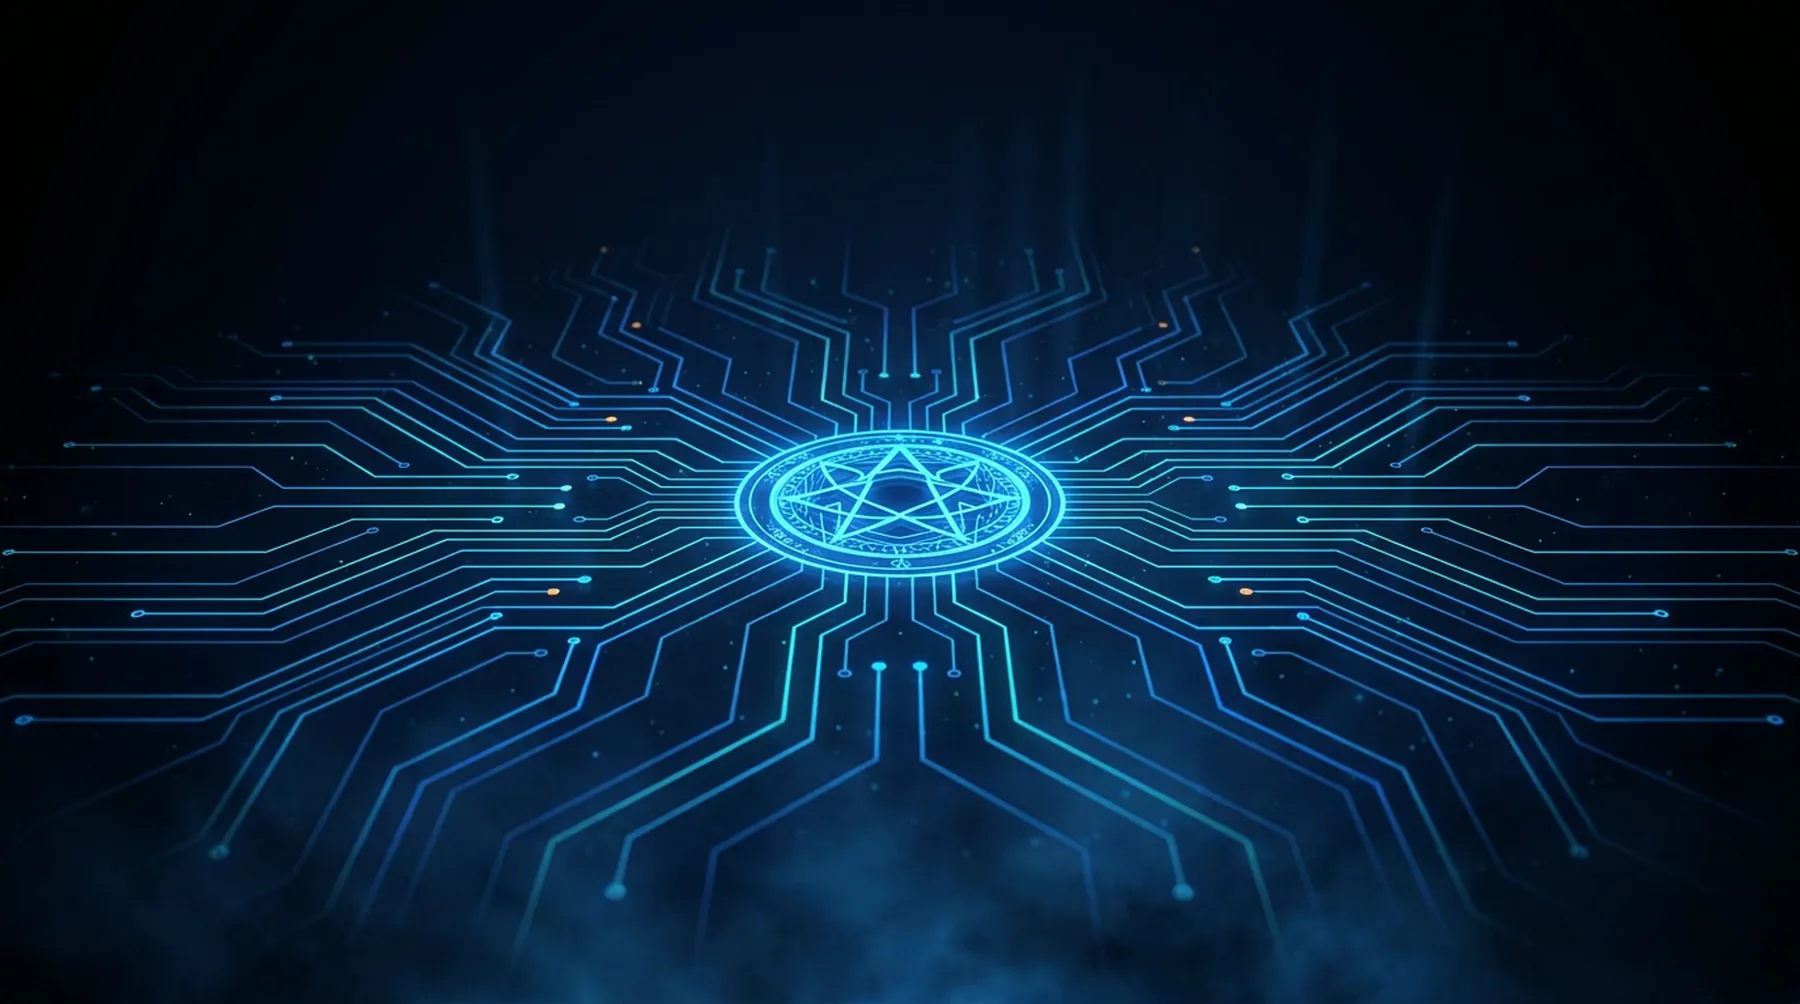
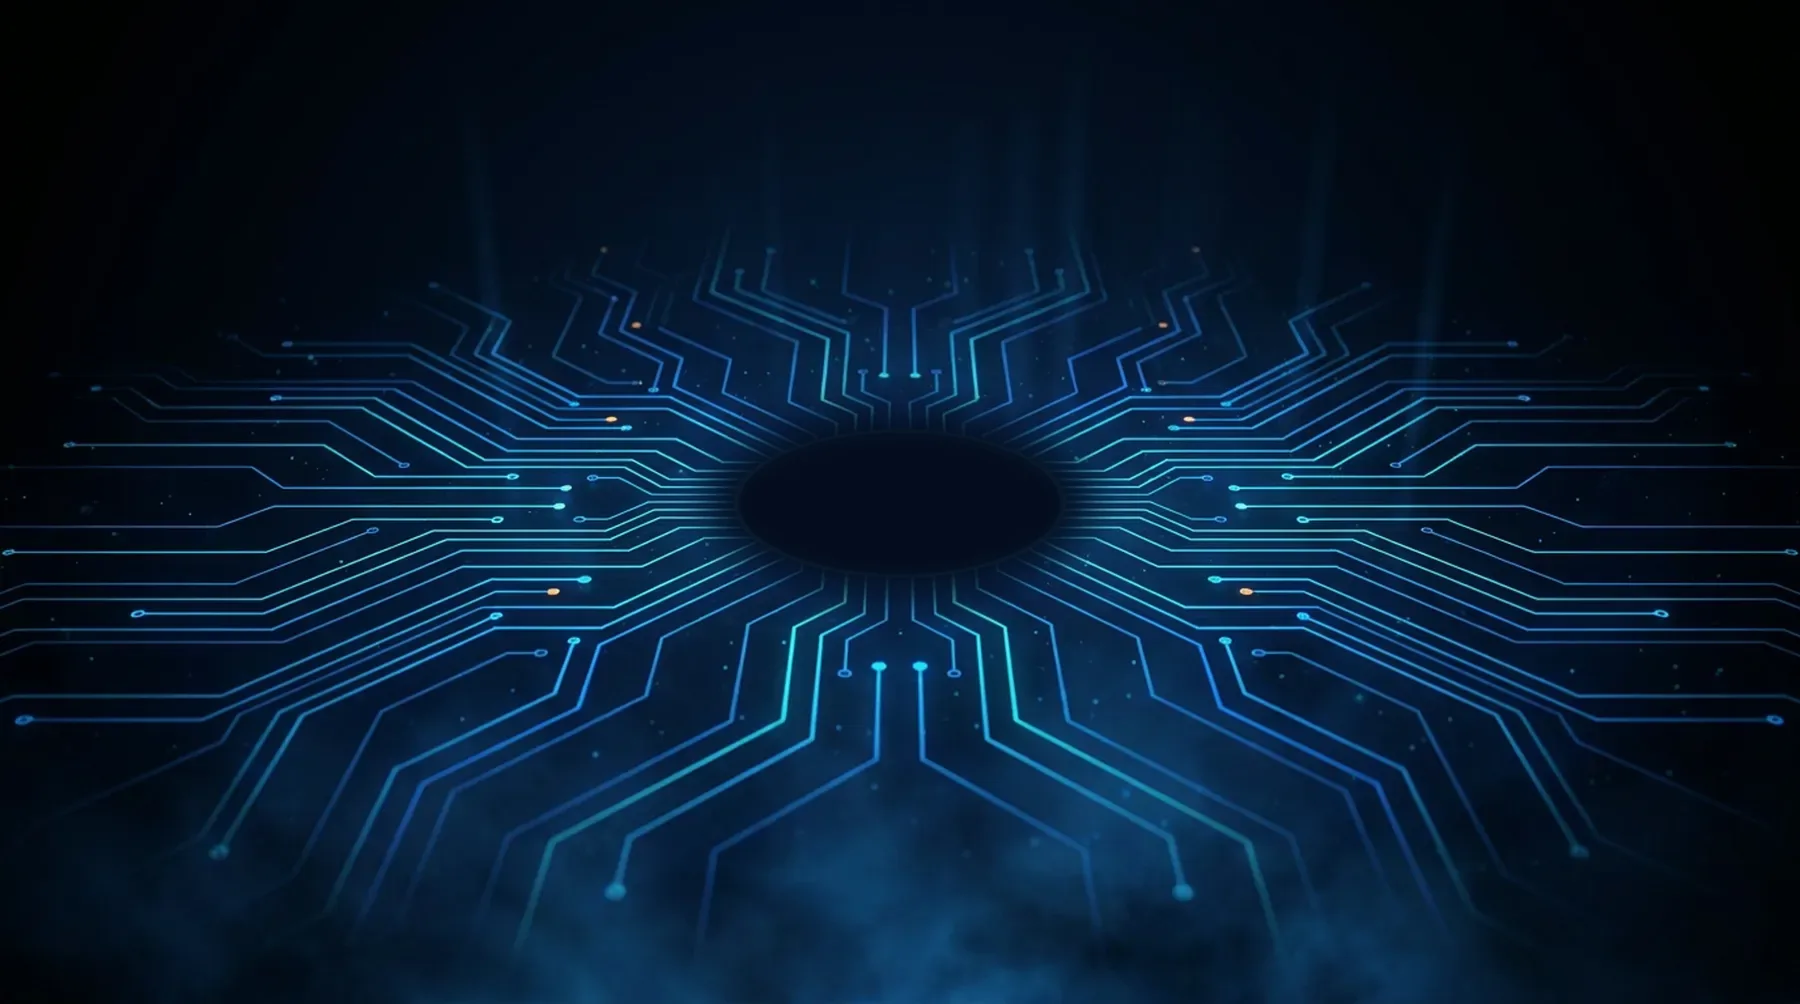
Diagram przed/po (reczna robota -> system), most, naglowek HUD; usuniete kolka i pierscien z ekranu

Changed region(s): [[0.3733, 0.3705, 0.6222, 0.6175]]

diff --git a/index.html b/index.html
@@ -64,7 +64,77 @@
     <div class="ss-mlabel reveal">(dlaczego SparkScale)</div>
     <p class="ss-mtext" id="ssManifestText">Nie sprzedajemy pojedynczych usług. Budujemy jeden spójny system, który łączy markę, produkt, growth i AI - i skaluje się razem z Tobą.</p>
     <div class="ss-mline"><span id="ssMline"></span></div>
+    <div class="sys-demo" id="sysDemo" data-s="a">
+      <div class="sys-bar">
+        <button type="button" class="sys-chip on" data-go="a">1 · Stan obecny</button>
+        <i aria-hidden="true">→</i>
+        <button type="button" class="sys-chip" data-go="b">2 · System SparkScale</button>
+        <button type="button" class="sys-chip sys-re" id="sysRe">↻ od nowa</button>
+      </div>
+      <svg id="sysSvg" viewBox="0 0 1100 580" role="img" aria-label="Schemat: firma z ręczną pracą ludzi zamieniona w jeden spójny system, w którym człowiek tylko weryfikuje"></svg>
+      <p class="sys-cap"><b class="ca">Stan obecny — ręczna robota.</b><b class="cb">System firmowy — dane płyną same.</b>
+        <span class="sys-leg"><svg viewBox="-12 -22 24 46" width="14" height="26" aria-hidden="true"><use href="#sysMan"/></svg> = powtarzalna praca człowieka · ludzików: <em id="sysCnt">9</em></span></p>
+    </div>
   </section>
+  <div class="sys-bridge" aria-hidden="true"><i></i></div>
+  <script>
+  (function(){
+    var demo=document.getElementById('sysDemo'),svg=document.getElementById('sysSvg');if(!demo||!svg)return;
+    var RM=matchMedia('(prefers-reduced-motion:reduce)').matches,tm=0,started=false;
+    var OR='#ff9a3c',YE='#ffe14d',GO='#f5c518',RD='#ff3b4a',DR='#e2566e',BL='#7d8bff',GR='#2ed573',GY='#9aa0a6',W='#F5F5F4';
+    function rect(w,h,c,t,fs,rx){return '<rect x="'+(-w/2)+'" y="'+(-h/2)+'" width="'+w+'" height="'+h+'" rx="'+(rx||4)+'" fill="'+c+'" fill-opacity=".1" stroke="'+c+'" stroke-width="3.5"/>'+lab(t,c,fs);}
+    function ell(rx,ry,c,t,fs){return '<ellipse rx="'+rx+'" ry="'+ry+'" fill="'+c+'" fill-opacity=".1" stroke="'+c+'" stroke-width="3.5"/>'+lab(t,c,fs);}
+    function lab(t,c,fs){var a=t.split('/'),o='',n=a.length;a.forEach(function(s,i){o+='<text y="'+((i-(n-1)/2)*(fs+4))+'" fill="'+c+'" font-size="'+fs+'">'+s+'</text>';});return o;}
+    function node(id,ax,ay,as,bx,by,bs,a,b,d){return '<g class="n" style="--ax:'+ax+';--ay:'+ay+';--as:'+as+';--bx:'+bx+';--by:'+by+';--bs:'+bs+';--d:'+(d||0)+'s">'+(b?'<g class="sa" style="--d:'+(d||0)+'s">'+a+'</g><g class="sb" style="--d:'+(d||0)+'s">'+b+'</g>':a)+'</g>';}
+    function man(x,y,i,cls){return '<g transform="translate('+x+' '+y+')" class="'+(cls||'')+'"><g class="fi" style="--i:'+i+'"><use href="#sysMan"/></g></g>';}
+    function line(d,cls,extra){return '<path class="'+cls+'" d="'+d+'" pathLength="1" '+(extra||'')+'/>';}
+    function brk(x,y,i){return '<g class="ob" transform="translate('+x+' '+y+')" style="--d:2.6s"><path d="M-12,-26H-34V26H-12M12,-26H34V26H12" stroke="'+W+'" stroke-width="4.5" fill="none" stroke-linejoin="round"/><use href="#sysMan"/></g>';}
+    var hex='-205,-48 0,-96 205,-48 205,48 0,96 -205,48';
+    var h='<defs><g id="sysMan" stroke="#F5F5F4" stroke-width="2.4" stroke-linecap="round" fill="none"><circle cx="0" cy="-14" r="5.5" fill="#0A0A0B"/><path d="M0-8V9M-9-3H9M0 9L-7 21M0 9L7 21"/></g></defs>';
+    // kontener systemu
+    h+='<rect class="cont" x="40" y="178" width="535" height="367" rx="34" pathLength="1"/>';
+    // linie stanu obecnego (reczna robota)
+    h+='<g class="oa" style="--d:.2s">'+[
+      'M178 175L355 110','M170 215L300 252','M480 145V204','M183 335L265 330','M160 380L215 396','M150 447L200 462','M297 452L333 462','M165 515L335 515','M470 396V440','M675 298L820 296','M775 245L850 252'
+    ].map(function(d){return '<path class="la" d="'+d+'"/>';}).join('')+'</g>';
+    // wiry stanu docelowego
+    var wires=['M330 118V178','M330 178V235L305 245','M125 241V290','M190 241V274','M255 241V258','M440 237V279','M500 340H584','M640 340H660','M920 340H930','M305 431V483','M720 280Q735 262 765 262','M865 280Q835 262 815 262'];
+    h+=wires.map(function(d,i){return line(d,'wb','style="--d:'+(2+i*.08)+'s"');}).join('');
+    // pulsy
+    var pul=['M330 118V235L305 245','M500 340H660','M660 340H930','M305 431V483','M125 241V290','M440 237V279'];
+    h+='<g class="pb">'+pul.map(function(d,i){return '<circle r="4.5" fill="#FF8900" style="filter:drop-shadow(0 0 6px #FF8900)"><animateMotion dur="'+(2.4+i*.35)+'s" begin="'+(i*.4)+'s" repeatCount="indefinite" path="'+d+'"/></circle>';}).join('')+'</g>';
+    // wezly
+    h+=node('dos',480,100,1,330,80,.84,rect(250,90,OR,'DOSTAWY',20),null,.1);
+    h+=node('erp',470,300,1,305,340,.93,'<polygon points="'+hex+'" fill="#2a2d33" stroke="'+GY+'" stroke-width="4" stroke-linejoin="round"/><text fill="'+W+'" font-size="44" font-weight="700">ERP</text>',null,.2);
+    h+=node('rev',125,185,1,125,215,1,ell(58,50,YE,'REVO',18),'<circle r="27" fill="'+YE+'" fill-opacity=".1" stroke="'+YE+'" stroke-width="3.5"/><text fill="'+YE+'" font-size="22">R</text>',.15);
+    h+=node('han',125,335,1,190,215,1,ell(64,52,DR,'HANDLOWIEC',13),'<circle r="27" fill="'+DR+'" fill-opacity=".1" stroke="'+DR+'" stroke-width="3.5"/><text fill="'+DR+'" font-size="22">H</text>',.25);
+    h+=node('biu',110,490,1,255,215,1,ell(55,48,RD,'BIURO',18),'<circle r="27" fill="'+RD+'" fill-opacity=".1" stroke="'+RD+'" stroke-width="3.5"/><text fill="'+RD+'" font-size="22">B</text>',.35);
+    h+=node('fak',478,500,1,330,505,1,rect(290,120,RD,'FAKTURY/BIURO',20),rect(290,44,RD,'FAKTURY I BIURO',17,22),.3);
+    h+=node('wyk',910,300,1,1010,340,.9,rect(180,100,GO,'WYKONY',22),null,.1);
+    h+=node('dia',760,185,1,790,340,1,'<polygon points="-128,0 0,-62 128,0 0,62" fill="'+BL+'" fill-opacity=".1" stroke="'+BL+'" stroke-width="3.5" stroke-linejoin="round"/><text fill="'+BL+'" font-size="14">REVOWYKONY.PL</text>','<polygon points="-130,0 0,-80 130,0 0,80" fill="'+BL+'" fill-opacity=".1" stroke="'+BL+'" stroke-width="3.5" stroke-linejoin="round"/><text fill="'+BL+'" font-size="15">REVOWYKONY.PL</text>',.2);
+    // koperta tylko w stanie obecnym
+    h+='<g class="oa" transform="translate(240 425)" style="--d:.1s"><rect x="-58" y="-39" width="116" height="78" rx="14" fill="'+GR+'" fill-opacity=".1" stroke="'+GR+'" stroke-width="3.5"/><path d="M-50-28L0 8L50-28" fill="none" stroke="'+GR+'" stroke-width="3.5" stroke-linejoin="round"/></g>';
+    // ludziki stanu obecnego
+    var F=[[245,88],[302,205],[172,262],[104,422],[322,412],[560,410],[228,552],[885,225],[400,165]];
+    h+='<g class="fas">'+F.map(function(p,i){return man(p[0],p[1],i,'fa');}).join('')+'</g>';
+    // elementy stanu docelowego
+    h+='<g class="ob" style="--d:1.9s"><rect x="385" y="193" width="170" height="44" rx="22" fill="#39a9ff" fill-opacity=".12" stroke="#39a9ff" stroke-width="3"/><text x="470" y="215" fill="#39a9ff" font-size="16">NADZÓR REVO</text></g>';
+    h+='<g class="ob" style="--d:2.1s"><rect x="518" y="243" width="62" height="38" rx="3" fill="#F5F5F4"/><text x="535" y="263" fill="'+RD+'" font-size="22">$</text><path d="M547 272L555 258L561 268L571 250" stroke="'+RD+'" stroke-width="3" fill="none" stroke-linecap="round" stroke-linejoin="round"/></g>';
+    h+='<g class="ob" style="--d:2.3s"><use href="#sysMan" transform="translate(66 262)"/><text x="88" y="258" font-size="12" fill="'+W+'" style="text-anchor:start">WPROWADZANIE I</text><text x="88" y="274" font-size="12" fill="'+W+'" style="text-anchor:start">WYMIANA DANYCH</text></g>';
+    h+='<g class="ob" style="--d:2.4s"><path d="M520 330H546V321L566 340L546 359V350H520Z" fill="'+GY+'"/></g>';
+    h+=brk(330,146,0)+brk(612,340,1)+brk(305,462,2);
+    h+='<text class="ob" style="--d:2.7s;text-anchor:start" x="372" y="150" font-size="14" fill="'+W+'">WERYFIKACJA</text><text class="ob" style="--d:2.7s" x="612" y="392" font-size="14" fill="'+W+'">WERYFIKACJA</text><text class="ob" style="--d:2.7s;text-anchor:start" x="352" y="466" font-size="14" fill="'+W+'">WERYFIKACJA</text>';
+    h+='<g class="ob" style="--d:2.8s"><text x="760" y="108" font-size="17" fill="'+W+'">PODGLĄD PRAC</text><circle cx="705" cy="188" r="32" fill="'+YE+'" fill-opacity=".1" stroke="'+YE+'" stroke-width="3.5"/><circle cx="815" cy="188" r="32" fill="'+DR+'" fill-opacity=".1" stroke="'+DR+'" stroke-width="3.5"/><path d="M715 219Q735 245 765 262M805 219Q800 245 805 262" stroke="'+BL+'" stroke-width="2.5" fill="none"/></g>';
+    svg.innerHTML=h;
+    var cnt=document.getElementById('sysCnt'),chips=demo.querySelectorAll('.sys-chip[data-go]');
+    function set(s){demo.setAttribute('data-s',s);cnt.textContent=s==='a'?F.length:4;chips.forEach(function(c){c.classList.toggle('on',c.getAttribute('data-go')===s);});}
+    function replay(){clearTimeout(tm);demo.classList.add('nt');set('a');void demo.offsetWidth;demo.classList.remove('nt');if(!RM)tm=setTimeout(function(){set('b');},4300);}
+    chips.forEach(function(c){c.addEventListener('click',function(){clearTimeout(tm);set(c.getAttribute('data-go'));});});
+    document.getElementById('sysRe').addEventListener('click',replay);
+    if(RM){demo.classList.add('in');set('b');return;}
+    new IntersectionObserver(function(es,o){if(es[0].isIntersecting&&!started){started=true;demo.classList.add('in');tm=setTimeout(function(){set('b');},4300);o.disconnect();}},{threshold:.35}).observe(demo);
+  })();
+  </script>
 
   <!-- OFERTA: holograficzny przezroczysty ekran z 8-ramienna gwiazda (samoczynna animacja) -->
   <section class="ss-holo" id="filary" aria-labelledby="holoH">
@@ -78,7 +148,6 @@
       <div class="holo-stage" id="holoStage">
         <div class="holo-bg"></div>
         <div class="holo-mist"></div>
-        <div class="holo-sg holo-sg1"></div><div class="holo-sg holo-sg2"></div>
         <canvas class="holo-fx" id="holoFx"></canvas>
         <div class="holo-glass"></div>
         <div class="holo-frame"></div>
@@ -771,6 +840,65 @@
 .holo-head .ss-kicker{margin-bottom:10px;color:var(--h);text-shadow:0 0 14px rgba(88,208,255,.7)}
 .holo-head .ss-h2{margin:0;font-size:clamp(28px,4vw,54px);text-shadow:0 0 40px rgba(88,208,255,.28)}
 .holo-head .ss-lead{margin:12px auto 0;font-size:clamp(14px,1.3vw,18px);max-width:640px;color:#a9bad1}
+/* naglowek w stylu ekranu: ramka HUD z narozami, skan, poswiata */
+.holo-head{position:relative;max-width:880px;padding:30px 28px 26px;background:linear-gradient(180deg,rgba(47,123,255,.16),rgba(5,12,28,.6));border:1px solid rgba(88,208,255,.3);box-shadow:0 0 46px rgba(47,123,255,.28),inset 0 0 34px rgba(88,208,255,.09);overflow:hidden;
+  background-image:linear-gradient(180deg,rgba(47,123,255,.16),rgba(5,12,28,.6)),
+   linear-gradient(#7fdcff,#7fdcff),linear-gradient(#7fdcff,#7fdcff),linear-gradient(#7fdcff,#7fdcff),linear-gradient(#7fdcff,#7fdcff),linear-gradient(#7fdcff,#7fdcff),linear-gradient(#7fdcff,#7fdcff),linear-gradient(#7fdcff,#7fdcff),linear-gradient(#7fdcff,#7fdcff);
+  background-repeat:no-repeat;background-size:100% 100%,26px 3px,3px 26px,26px 3px,3px 26px,26px 3px,3px 26px,26px 3px,3px 26px;
+  background-position:0 0,0 0,0 0,100% 0,100% 0,0 100%,0 100%,100% 100%,100% 100%}
+.holo-head::after{content:"";position:absolute;left:0;right:0;top:-40%;height:40%;background:linear-gradient(180deg,transparent,rgba(127,220,255,.14),transparent);animation:holoScan 6s linear infinite;pointer-events:none}
+@keyframes holoScan{to{top:110%}}
+.holo-head .ss-kicker{font-family:ui-monospace,Menlo,Consolas,monospace;letter-spacing:3px;font-size:12.5px}
+.holo-head .ss-kicker::before{content:"\25B8  ";color:#FF8900}
+.holo-head .ss-h2{text-shadow:0 0 22px rgba(88,208,255,.55),0 0 60px rgba(47,123,255,.35)}
+/* most miedzy sekcjami: przewod z impulsem */
+.sys-bridge{position:relative;height:96px;background:linear-gradient(#0A0A0B,#050912)}
+.sys-bridge::before{content:"";position:absolute;left:50%;top:0;bottom:0;width:2px;margin-left:-1px;background:linear-gradient(#FF8900,#58d0ff);box-shadow:0 0 12px rgba(88,208,255,.6)}
+.sys-bridge i{position:absolute;left:50%;top:0;width:10px;height:10px;margin-left:-5px;border-radius:50%;background:#fff;box-shadow:0 0 14px 4px #58d0ff;animation:sysPulse 2.6s ease-in infinite}
+@keyframes sysPulse{0%{top:-4px;opacity:0}15%{opacity:1}85%{opacity:1}100%{top:88px;opacity:0}}
+.ss-manifest{padding-bottom:30px}
+/* diagram: stan obecny -> system */
+.sys-demo{margin-top:64px;opacity:0;transform:translateY(26px);transition:opacity .9s ease,transform .9s ease}
+.sys-demo.in{opacity:1;transform:none}
+.sys-bar{display:flex;gap:10px;justify-content:center;align-items:center;flex-wrap:wrap;margin-bottom:18px}
+.sys-bar i{color:var(--mut);font-style:normal}
+.sys-chip{font:600 13px 'Space Grotesk';letter-spacing:.5px;color:#B8B8B4;background:#0F0F12;border:1px solid #2a2a30;border-radius:999px;padding:9px 16px;cursor:pointer;transition:.25s}
+.sys-chip:hover{border-color:#FF8900;color:#fff}
+.sys-chip.on{color:#0A0A0B;background:#FF8900;border-color:#FF8900}
+.sys-re{margin-left:10px}
+#sysSvg{width:100%;height:auto;display:block;font-family:'Space Grotesk',sans-serif;overflow:visible}
+#sysSvg text{font-weight:600;text-anchor:middle;dominant-baseline:central}
+#sysSvg .n{transform:translate(calc(var(--x)*1px),calc(var(--y)*1px)) scale(var(--s));--x:var(--ax);--y:var(--ay);--s:var(--as);transition:transform 1.5s cubic-bezier(.65,0,.25,1) var(--d,0s)}
+.sys-demo[data-s=b] #sysSvg .n{--x:var(--bx);--y:var(--by);--s:var(--bs)}
+.sys-demo.nt #sysSvg *{transition:none!important}
+#sysSvg .sa,#sysSvg .sb{transition:opacity .6s ease var(--d,0s)}
+#sysSvg .sb{opacity:0}
+.sys-demo[data-s=b] #sysSvg .sa{opacity:0}.sys-demo[data-s=b] #sysSvg .sb{opacity:1}
+#sysSvg .oa{transition:opacity .6s ease var(--d,0s)}
+.sys-demo[data-s=b] #sysSvg .oa{opacity:0}
+#sysSvg .ob{opacity:0;transition:opacity .8s ease var(--d,1.6s)}
+.sys-demo[data-s=b] #sysSvg .ob{opacity:1}
+#sysSvg .la{stroke:#8c8c88;stroke-width:2.5;fill:none;stroke-linecap:round}
+#sysSvg .wb{stroke:#58d0ff;stroke-width:2.4;fill:none;stroke-linecap:round;stroke-linejoin:round;filter:drop-shadow(0 0 4px #58d0ff);stroke-dasharray:1;stroke-dashoffset:1;transition:stroke-dashoffset 1.1s ease var(--d,2s)}
+.sys-demo[data-s=b] #sysSvg .wb{stroke-dashoffset:0}
+#sysSvg .pb{opacity:0;transition:opacity .5s ease 3.4s}
+.sys-demo[data-s=b] #sysSvg .pb{opacity:1}
+#sysSvg .cont{fill:rgba(79,100,235,.2);stroke:#5b6cff;stroke-width:3.5;filter:drop-shadow(0 0 14px rgba(91,108,255,.5));stroke-dasharray:1;stroke-dashoffset:1;fill-opacity:0;transition:stroke-dashoffset 1.6s ease 1s,fill-opacity 1s ease 2s}
+.sys-demo[data-s=b] #sysSvg .cont{stroke-dashoffset:0;fill-opacity:1}
+#sysSvg .fa .fi{transform-box:fill-box;transform-origin:center;transition:transform .7s ease calc(var(--i)*.12s),opacity .7s ease calc(var(--i)*.12s)}
+.sys-demo[data-s=a] #sysSvg .fa .fi{animation:sysBob 1.1s ease-in-out infinite alternate;animation-delay:calc(var(--i)*-.23s)}
+.sys-demo[data-s=b] #sysSvg .fa .fi{opacity:0;transform:scale(.1) translateY(-14px)}
+@keyframes sysBob{to{transform:translateY(-6px)}}
+#sysSvg .man *{stroke:#F5F5F4;stroke-width:2.4;fill:none;stroke-linecap:round}
+#sysSvg .man circle{fill:#0A0A0B}
+.sys-cap{margin-top:14px;text-align:center;color:#B8B8B4;font-size:15px;line-height:1.7}
+.sys-cap b{font-family:'Space Grotesk';color:#F5F5F4;margin-right:10px}
+.sys-cap .cb{display:none;color:#58d0ff}
+.sys-demo[data-s=b] .sys-cap .ca{display:none}.sys-demo[data-s=b] .sys-cap .cb{display:inline}
+.sys-leg{display:inline-flex;align-items:center;gap:6px;color:#8C8C88}
+.sys-leg em{font-style:normal;color:#FF8900;font-weight:700}
+@media(max-width:720px){#sysSvg text{font-size:inherit}.sys-bridge{height:70px}}
+@media(prefers-reduced-motion:reduce){.holo-head::after,.sys-bridge i,.sys-demo[data-s=a] #sysSvg .fa .fi{animation:none}}
 .holo-wrap{width:100%;margin-top:clamp(20px,3vw,40px);display:flex;flex-direction:column;align-items:center;padding:0 2vw}
 .holo-stage{position:relative;aspect-ratio:1000/690;width:min(96vw,1620px);color:#EAF6FF;--sgw:56%}
 .holo-stage[data-m="1"]{aspect-ratio:600/760;width:min(94vw,560px)}
@@ -1092,8 +1220,8 @@
   if(!sec||!stage||!svg)return;
   var NS='http://www.w3.org/2000/svg',labs=[].slice.call(stage.querySelectorAll('.holo-lab')),DIR=['n','ne','e','se','s','sw','w','nw'];
   var LAYOUT={
-    d:{W:1000,H:690,cx:500,cy:345,R:236,inner:50,w:42,lw:300,rs:1.25,gap:22,sgw:56,rain:15,motes:70,traces:30},
-    m:{W:600,H:760,cx:300,cy:380,R:150,inner:38,w:27,lw:150,rs:.72,gap:30,sgw:66,rain:6,motes:34,traces:18}
+    d:{W:1000,H:690,cx:500,cy:345,R:236,inner:50,w:42,lw:300,rs:1.25,gap:22,sgw:56,rain:15,motes:0,traces:30},
+    m:{W:600,H:760,cx:300,cy:380,R:150,inner:38,w:27,lw:150,rs:.72,gap:30,sgw:66,rain:6,motes:0,traces:18}
   };
   // runy (siatka 24x24, same proste kreski): 8 odnog + 8 ozdobnych
   var RUNES=[
@@ -1151,12 +1279,6 @@
     var defs=el('defs',{},svg),g0=el('linearGradient',{id:'hg0',gradientUnits:'userSpaceOnUse',x1:0,y1:-L.inner,x2:0,y2:-L.R},defs);
     el('stop',{offset:'0','stop-color':'#58d0ff','stop-opacity':'.06'},g0);el('stop',{offset:'.7','stop-color':'#58d0ff','stop-opacity':'.42'},g0);el('stop',{offset:'1','stop-color':'#bff2ff','stop-opacity':'.62'},g0);
     var gc=el('g',{class:'circ'},svg);traces(gc);els={rays:[],circ:gc};
-    var ringsG=el('g',{transform:'translate('+L.cx+' '+L.cy+')'},svg);
-    el('circle',{class:'ring r1',r:L.inner+34,cx:0,cy:0},ringsG);
-    el('circle',{class:'ring r3',r:L.R*.88,cx:0,cy:0},ringsG);
-    // pierscien z drobnych run (obraca sie powoli)
-    var rr=el('g',{class:'rr'},ringsG),NR=m==='m'?18:28,RR=L.R*.64;
-    for(var q=0;q<NR;q++){var aa=q/NR*360;el('path',{d:RUNES[q%RUNES.length],transform:'rotate('+aa+') translate(0 '+(-RR)+') scale('+(m==='m'?.3:.42)+') translate(-12 -12)','stroke-width':2.4},rr);}
     var rays=el('g',{class:'rays',style:'filter:drop-shadow(0 0 8px rgba(88,208,255,.6))'},svg);
     for(var i=0;i<8;i++){
       var ang=i*45,g=el('g',{transform:'translate('+L.cx+' '+L.cy+') rotate('+ang+')'},rays);
@@ -1183,7 +1305,6 @@
       TRIS.forEach(function(t){el('polygon',{points:pts(t),fill:k?'none':'#FF8900',stroke:k?'#FF8900':'none','stroke-width':k?2.2:0},lg);});
       els.logo.push(lg);
     }
-    els.flash=el('circle',{class:'flash',cx:L.cx,cy:L.cy,r:30},svg);
     fx.fit();setT(cur);
   }
   function cl(x){return x<0?0:x>1?1:x}
@@ -1223,7 +1344,7 @@
     function mkRise(init){return{x:R(.05,.95)*cw,y:init?R(0,ch):ch+20,vy:R(14,34),s:R(14,26),i:Math.floor(R(0,16)),a:0,life:R(.5,1),c:Math.random()<.3?'255,160,60':'127,220,255',ph:R(0,6.28)}}
     function glyph(i,x,y,s,col,al){ctx.save();ctx.translate(x,y);var k=s/24;ctx.scale(k,k);ctx.translate(-12,-12);ctx.lineWidth=1.5/k;ctx.lineCap='round';ctx.lineJoin='round';ctx.strokeStyle='rgba('+col+','+al+')';ctx.stroke(P[i%P.length]);ctx.restore();}
     function burst(i){
-      if(!ctx||!cw||RM)return;var a=i*45*Math.PI/180,x=(L.cx+Math.sin(a)*L.R)/L.W*cw,y=(L.cy-Math.cos(a)*L.R)/L.H*ch;
+      return;var a=i*45*Math.PI/180,x=(L.cx+Math.sin(a)*L.R)/L.W*cw,y=(L.cy-Math.cos(a)*L.R)/L.H*ch;
       for(var n=0;n<2;n++)sparks.push({x:x,y:y,vx:R(-40,40)+Math.sin(a)*30,vy:R(-50,10)+(-Math.cos(a))*30,life:R(.7,1.4),t:0});
     }
     function frame(ts){
